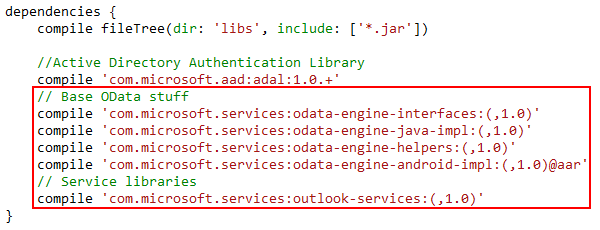
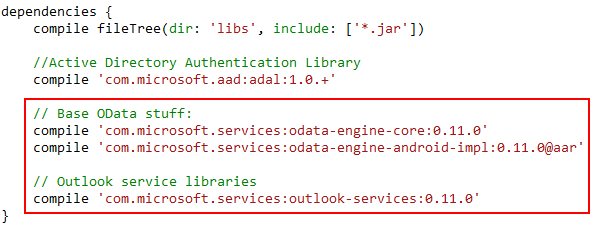
Updated Exchange lab

Changed region(s): [[0.0, 0.2435, 0.99, 0.9739], [0.0, 0.0304, 0.72, 0.1522]]

diff --git a/O3654-4 Native Android Development with Office 365 APIs/03 O365 Exchange SDK/hands-on-lab.md b/O3654-4 Native Android Development with Office 365 APIs/03 O365 Exchange SDK/hands-on-lab.md
@@ -132,17 +132,21 @@ configure it.
 
     ```groovy
     // Base OData stuff
-    compile 'com.microsoft.services:odata-engine-interfaces:(,1.0)'
-    compile 'com.microsoft.services:odata-engine-java-impl:(,1.0)'
-    compile 'com.microsoft.services:odata-engine-helpers:(,1.0)'
-    compile 'com.microsoft.services:odata-engine-android-impl:(,1.0)@aar'
-    // Service libraries
-    compile 'com.microsoft.services:outlook-services:(,1.0)'
+    compile 'com.microsoft.services:odata-engine-core:0.11.0'
+    compile 'com.microsoft.services:odata-engine-android-impl:0.11.0@aar'
+
+    // Outlook SDK
+    compile 'com.microsoft.services:outlook-services:0.11.0'
     ```
+
+    This adds a dependency on version `0.11.0` of the Outlook part of the O365 
+    SDK for Android.
 
     E.g.
     
     ![](img/0034_update_app_gradle_file.png)
+
+    [semver]: http://semver.org/
 
 04. Click **Sync Now**.
     
@@ -160,27 +164,14 @@ configure it.
 07. Add the following code to the end of the `onCreate` function.
 
     ```java
-    //Configure the depencency resolver
-    mDependencyResolver = new DefaultDependencyResolver();
-    mDependencyResolver.setCredentialsFactory(new CredentialsFactory() {
-        @Override
-        public Credentials getCredentials() {
-            return new Credentials() {
-                /**
-                 * Adds the access token to each request made by the client
-                 */
-                public void prepareRequest(Request request) {
-                    request.addHeader("Authorization", "Bearer " + mAccessToken);
-                }
-            };
-        }
-    });
+        //Configure the depencency resolver
+        mDependencyResolver = new DefaultDependencyResolver(mAccessToken);
 
-    //Create the client
-    mOutlookClient = new OutlookClient(
-        "https://outlook.office365.com/api/v1.0",
-        mDependencyResolver
-    );
+        //Create the client
+        mOutlookClient = new OutlookClient(
+            "https://outlook.office365.com/api/v1.0",
+            mDependencyResolver
+        );
     ```
 
     The first argument to the `OutlookClient` is the URL for your O365 Exchange
